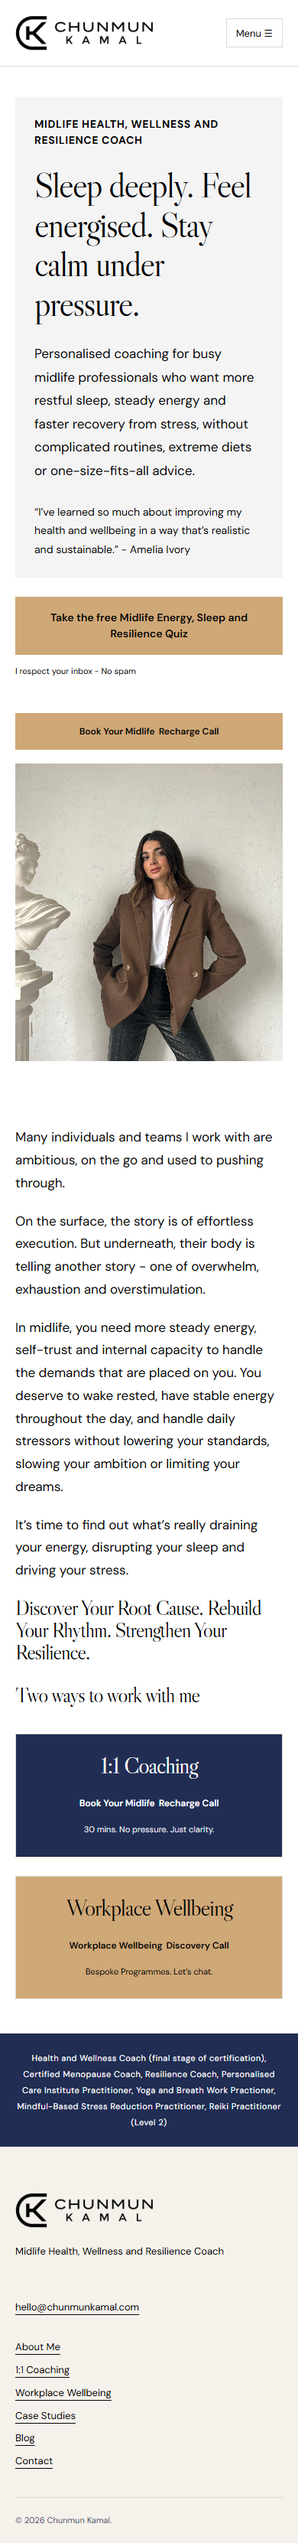
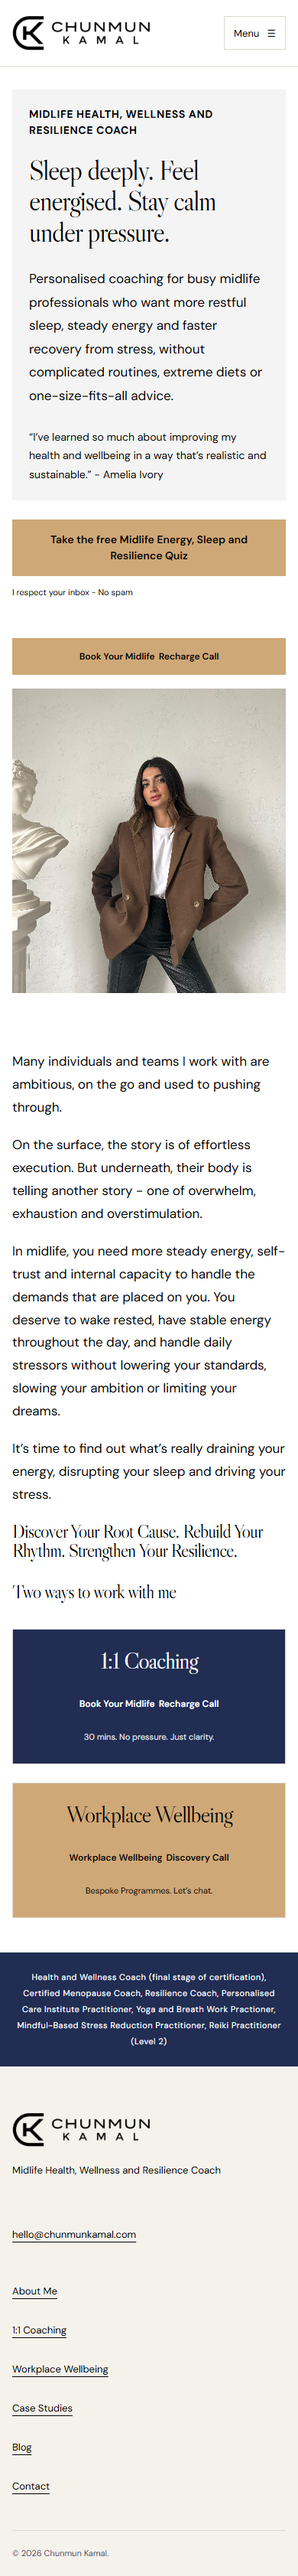
fix: improve layouts across screen sizes

diff --git a/styles.css b/styles.css
@@ -11,3 +11,74 @@
 body{color:#030303}p{color:#030303}.section{padding-block:65px}.section h2{font-size:45px}.hero{background:#fff}.hero-grid{grid-template-columns:1.8fr 1fr;align-items:start;gap:35px;padding-block:40px}.hero-copy{padding:0}.hero-panel{background:#f4f4f4;padding:35px}.hero h1{font-size:59px;line-height:1.12}.hero .eyebrow{color:#030303;letter-spacing:.045em;font-size:14px}.hero .lead{font-size:17px}.hero-quote{max-width:none;margin-top:26px;border:0;padding:0;font-size:14px;color:#030303}.hero-visual{padding:0}.hero-visual>.button{width:100%;background:var(--gold);border-color:var(--gold);color:#030303;margin-bottom:18px}.photo-frame,.photo{border-radius:0;border:0}.photo-frame{aspect-ratio:.77}.hero .quiz-link{display:inline-flex;background:var(--gold);border-color:var(--gold);color:#030303;padding:16px 22px;max-width:400px;text-align:center;font-size:14px}.intro-text{max-width:none;margin:0}.intro-text p{font-size:17px}.section[data-deck-slide="7"] h2{font-size:32px}.section[data-deck-slide="7"] .cards{max-width:830px}.cards .service{padding:25px;text-align:center;background:var(--navy)}.cards .service.gold{background:var(--gold);color:#030303}.service.gold p{color:#030303}.service .button{background:transparent;border:0;color:inherit;padding:0}.service .micro{margin-bottom:0}.service h3{font-size:29px}.section.page-hero{background:#fff;padding-block:30px}.page-hero .container{background:var(--navy);padding:65px 40px;text-align:left;color:white}.page-hero h1,.page-hero h2{color:white;margin:0}.page-hero h1{font-size:55px}.credentials.section{padding-block:22px}.credentials p{color:white}.audience-layout{display:grid;grid-template-columns:230px 1fr;gap:45px}.audiences{display:grid;align-content:space-around;gap:35px}.audiences>div{text-align:center}.audiences .topic-icon{width:70px;height:70px;background:var(--cream);padding:14px;color:var(--navy)}.topic-icon{display:block;width:58px;height:58px;margin-bottom:20px;color:var(--navy)}.audiences .topic-icon{margin-inline:auto}.audiences p{font-size:14px}.symptoms{padding-left:20px}.symptoms li{color:#030303;margin-bottom:8px}.reassurance{display:grid;gap:45px;margin:40px 0}.reassurance article{text-align:center}.reassurance .topic-icon{width:95px;height:95px;padding:23px;margin-inline:auto;color:white;background:var(--tone)}.reassurance h3{font:600 19px 'DM Sans',sans-serif;letter-spacing:0}.tone-slate{--tone:var(--muted)}.tone-rose{--tone:var(--rose)}.tone-gold{--tone:var(--gold)}.tone-sage{--tone:var(--sage)}.framework-columns{display:grid;grid-template-columns:repeat(3,1fr);gap:20px;margin-top:35px}.framework-column{padding:24px;background:#65845a10}.framework-column:nth-child(2){background:#f3f3f3}.framework-column:nth-child(3){background:#cfa87719}.framework-title{font-size:28px;min-height:70px}.framework-item{margin-top:22px;background:white;padding:20px}.framework-item h3{font-size:26px}.framework-item p{font-size:15px}.framework-item>.topic-icon{width:40px;height:40px}.framework-item .copy-block h3{font-size:26px}.photo-right{grid-template-columns:1.8fr 1fr;align-items:stretch;gap:40px}.photo-right .photo{max-height:none}.photo-right .photo img{height:100%;min-height:460px;max-height:780px;object-fit:cover}.approach-item{display:grid;grid-template-columns:64px 1fr;gap:22px;margin-bottom:30px}.approach-item>.topic-icon{background:var(--tone);color:white;padding:13px;width:64px;height:64px}.approach-item h3{font-size:28px}.approach-item:last-child{margin-bottom:0}.deck-stats{grid-template-columns:repeat(3,1fr);gap:0}.deck-stats>div{padding:30px;border-right:1px solid #ffffff40}.deck-stats>div:last-child{border:0}.deck-stats h3{font-size:30px}.deck-stats h3:last-child{margin-bottom:0}.cost-columns{display:grid;grid-template-columns:repeat(3,1fr);gap:20px;margin-top:30px}.cost-columns article{background:#f4f4f4;padding:25px}.cost-columns h3{font-size:26px}.cost-columns p{font-size:15px}.process-columns{display:grid;grid-template-columns:repeat(3,1fr);gap:45px;margin-top:45px}.process-columns h3{font-size:30px}.process-columns .topic-icon{width:64px;height:64px}.gold-band{background:#cfa87770}.gold-band h2{font-size:37px}.testimonial-columns{display:grid;grid-template-columns:1fr 1fr;gap:30px}.testimonial-columns blockquote{background:#f4f4f4;padding:30px;margin:0;font-size:16px}.testimonial-columns p{line-height:1.9}.testimonial-columns p:last-child{margin-bottom:0}.workplace-steps{margin-block:35px}.workplace-steps article{display:grid;grid-template-columns:65px 1fr;gap:30px;margin-bottom:35px}.workplace-steps h3{font-size:30px}.workplace-steps .copy-block{margin:0}.workplace-steps>article:nth-child(2)>.topic-icon{color:var(--sage)}.workplace-steps>article:nth-child(3)>.topic-icon{color:var(--rose)}.case-columns{display:block}.case-work{background:#f4f4f4;padding:28px 35px;margin-bottom:22px}.case-work li{color:#030303}.case-quote{border:0;background:var(--navy);color:white;padding:35px}.case-quote p{color:white}.case-quote h3{font-size:30px}.credential-columns{display:grid;grid-template-columns:1fr 1fr;gap:50px}.credential-columns>div{background:#f4f4f4;padding:30px}.credential-columns h3{font-size:30px}.association-slots{display:grid;grid-template-columns:repeat(3,1fr);gap:25px}.association-slots>div{height:95px;background:#f4f4f4}.personal-columns{display:grid;grid-template-columns:repeat(3,1fr);gap:35px}.personal-columns img{width:170px;height:170px;object-fit:cover;margin-bottom:25px}.personal-columns h3{font-size:30px}.personal-columns p{background:#f4f4f4;padding:22px;min-height:180px;font-size:15px}.deck-contact{max-width:900px;margin-top:35px}.pathway{max-width:none}.faq{max-width:none}.reading{max-width:1000px}
 @media(max-width:1000px){.hero-grid{grid-template-columns:1.5fr 1fr;gap:25px}.hero-panel{padding:25px}.hero h1{font-size:47px}.audience-layout{grid-template-columns:165px 1fr;gap:25px}.framework-column{padding:15px}.framework-item{padding:15px}.framework-title{font-size:25px}.photo-right{grid-template-columns:1.5fr 1fr}.approach-item{grid-template-columns:50px 1fr;gap:15px}.approach-item>.topic-icon{width:50px;height:50px;padding:10px}.process-columns{gap:25px}.deck-stats>div{padding:20px}}
 @media(max-width:700px){.section{padding-block:45px}.hero-grid{grid-template-columns:1fr}.hero h1{font-size:46px}.hero-panel{padding:25px}.hero-visual{max-width:440px;width:100%;margin-inline:auto}.photo-frame{aspect-ratio:.9}.section h2{font-size:36px}.page-hero .container{padding:38px 24px}.page-hero h1{font-size:40px}.audience-layout{grid-template-columns:1fr}.audiences{grid-template-columns:repeat(3,1fr);gap:12px}.audiences .topic-icon{width:50px;height:50px;padding:10px}.audiences p{font-size:11px}.framework-columns,.photo-right,.deck-stats,.cost-columns,.process-columns,.testimonial-columns,.credential-columns,.personal-columns{grid-template-columns:1fr}.framework-title{min-height:0}.reassurance{gap:15px}.reassurance .topic-icon{width:60px;height:60px;padding:14px}.reassurance h3{font-size:13px;line-height:1.6}.photo-right .photo img{min-height:0;height:380px;object-position:center 30%}.deck-stats>div{border-right:0;border-bottom:1px solid #ffffff40}.personal-columns img{width:100%;height:240px}.personal-columns p{min-height:0}.association-slots{gap:12px}.association-slots>div{height:65px}.workplace-steps article{grid-template-columns:45px 1fr;gap:15px}.workplace-steps .topic-icon{width:40px;height:40px}.case-work,.case-quote{padding:25px}.testimonial-columns blockquote{padding:24px}.process-columns{gap:30px}.framework-columns{gap:25px}.gold-band h2{font-size:32px}.section[data-deck-slide="7"] h2{font-size:27px}}
+
+/* Fluid sizing and readable tablet layouts, without clipping long content. */
+.container{width:min(1200px,calc(100% - clamp(32px,6vw,96px)))}
+.hero-grid,.split,.framework-columns,.cost-columns,.process-columns,.testimonial-columns,.credential-columns,.personal-columns,.footer-top,.form-grid{min-width:0}
+.hero-grid>*,.split>*,.framework-columns>*,.cost-columns>*,.process-columns>*,.testimonial-columns>*,.credential-columns>*,.personal-columns>*,.footer-top>*,.form-grid>*{min-width:0}
+h1,h2,h3,p,li,blockquote,label,a{overflow-wrap:break-word}
+.hero h1{font-size:clamp(36px,4.3vw,59px)}
+.section h2{font-size:clamp(28px,3.2vw,45px)}
+.page-hero h1{font-size:clamp(32px,4vw,55px)}
+.gold-band h2{font-size:clamp(28px,3vw,37px)}
+.section[data-deck-slide="7"] h2{font-size:clamp(24px,2.5vw,32px)}
+.pathway>.copy-block:first-child h3{font-size:clamp(28px,3.5vw,48px)}
+.button{max-width:100%;min-height:44px;text-align:center}
+.brand{flex-shrink:0;max-width:calc(100vw - 110px)}
+input,select,textarea{min-width:0;max-width:100%}
+.blog-content img{height:auto}
+.blog-content iframe,.blog-content video{max-width:100%}
+.blog-content pre{white-space:pre-wrap;overflow-wrap:anywhere}
+.blog-content table{display:block;max-width:100%;overflow:auto}
+.calendar-link,footer a{overflow-wrap:anywhere}
+summary{min-height:44px;padding-block:5px}
+
+@media(max-width:1100px){
+ .framework-columns{grid-template-columns:minmax(0,1fr)}
+ .framework-column{display:grid;grid-template-columns:repeat(2,minmax(0,1fr));gap:20px;padding:22px}
+ .framework-title{grid-column:1/-1;min-height:0;margin-bottom:0}
+ .framework-item{margin-top:0}
+ .cost-columns{grid-template-columns:repeat(2,minmax(0,1fr))}
+}
+@media(max-width:1024px){
+ .header{min-height:86px;flex-wrap:wrap;gap:0}
+ .menu-toggle{display:flex;align-items:center;justify-content:center;gap:10px;min-height:44px;min-width:70px;background:none;border:1px solid var(--line);padding:9px 12px;font:13px 'DM Sans',sans-serif}
+ #navigation{display:none;width:100%;padding:14px 0;flex-direction:column;gap:0}
+ #navigation.open{display:flex}
+ #navigation a{display:flex;align-items:center;min-height:44px;font-size:15px;padding:8px 4px}
+ .process-columns{grid-template-columns:minmax(0,1fr);gap:28px}
+ .process-columns article{display:grid;grid-template-columns:64px minmax(0,1fr);column-gap:24px}
+ .process-columns article>.topic-icon{grid-column:1;grid-row:1/span 12}
+ .process-columns article>:not(.topic-icon){grid-column:2}
+}
+@media(max-width:900px){
+ .hero-grid{grid-template-columns:minmax(0,1fr);gap:30px}
+ .hero-visual{width:100%;max-width:480px;margin-inline:auto}
+ .hero-panel{padding:clamp(22px,4vw,35px)}
+ .photo-frame{aspect-ratio:.9}
+ .photo-right{grid-template-columns:minmax(0,1fr);gap:30px}
+ .photo-right .photo{max-width:480px;width:100%;margin-inline:auto}
+ .photo-right .photo img{height:440px;min-height:0;object-position:center 30%}
+ .testimonial-columns,.credential-columns{grid-template-columns:minmax(0,1fr);gap:24px}
+ .personal-columns{grid-template-columns:minmax(0,1fr);gap:30px}
+ .personal-columns article{display:grid;grid-template-columns:170px minmax(0,1fr);gap:0 24px}
+ .personal-columns img{grid-row:1/span 2;width:170px;height:210px;margin:0}
+ .personal-columns p{min-height:0;margin-bottom:0}
+}
+@media(max-width:600px){
+ .hero-grid{padding-block:30px}
+ .page-hero .container{padding:32px 22px}
+ .framework-column{grid-template-columns:minmax(0,1fr);padding:18px}
+ .cost-columns{grid-template-columns:minmax(0,1fr)}
+ .process-columns article{grid-template-columns:48px minmax(0,1fr);column-gap:16px}
+ .process-columns .topic-icon{width:48px;height:48px}
+ .process-columns h3{font-size:26px}
+ .personal-columns article{display:block}
+ .personal-columns img{width:100%;height:240px;margin-bottom:22px}
+ .photo-right .photo img{height:380px}
+ .hero .quiz-link{width:100%;padding:15px 18px}
+ .footer-top a{display:inline-flex;align-items:center;min-height:44px}
+ .footer-top .brand{display:block;min-height:0}
+ details>div{padding-inline:10px}
+ .workplace-steps h3,.credential-columns h3{font-size:27px}
+}

diff --git a/script.js b/script.js
@@ -12,6 +12,18 @@ document.addEventListener('keydown', (event) => {
     menu.focus();
   }
 });
+// Reset the mobile menu when switching between phone and desktop layouts.
+const mobileLayout = window.matchMedia('(max-width: 1024px)');
+mobileLayout.addEventListener('change', () => {
+  menu?.setAttribute('aria-expanded', 'false');
+  navigation?.classList.remove('open');
+});
+navigation?.addEventListener('click', (event) => {
+  if (event.target.closest('a') && mobileLayout.matches) {
+    menu?.setAttribute('aria-expanded', 'false');
+    navigation.classList.remove('open');
+  }
+});
 const form = document.querySelector('#contact-form');
 if (form) {
   const programme = new URLSearchParams(location.search).get('programme');

diff --git a/README.md b/README.md
@@ -31,6 +31,8 @@ All 63 slides and 478 extracted text blocks are accounted for. `CONTENT-AUDIT.md
 
 `styles.css` contains the responsive design; `script.js` handles mobile navigation and the contact email draft. `build.py` extracts the original PowerPoint when available, preserving authored line breaks, and regenerates the HTML. It falls back to `revisions.json` when the PowerPoint is unavailable and uses the saved full stress article in `blog-source.json`. Its content checks fail if any source block is unaccounted for or any website paragraph differs from the source text, apart from layout whitespace.
 
-Browser checks covered all eight pages at 1440px desktop, 768px tablet and 390px mobile widths: no broken images or horizontal overflow, no JavaScript errors. Mobile navigation and FAQ expansion were exercised. Screenshots are in `preview/`. Third-party Calendly booking completion and actual email delivery were not tested.
+Responsive layouts use fluid headings and spacing, readable tablet grids, stacked phone layouts and a mobile menu through 1024px. The menu resets when crossing between mobile and desktop layouts. Buttons and mobile navigation links have touch-friendly target sizes.
+
+Browser checks covered all eight pages at 18 viewport widths from 320px to 2560px, including both sides of layout breakpoints: 144 page/width combinations, with no horizontal overflow or content extending outside the viewport. Mobile navigation, desktop/mobile resizing, Escape dismissal, FAQ expansion and workplace programme selection were exercised. Screenshots are in `preview/`, including tablet and phone previews. Third-party Calendly loading was excluded from this layout sweep; booking completion and actual email delivery were not tested.
 
 Reference layouts reviewed: https://www.heidiallsopcoaching.com/, https://andreagiles.com/, https://susanfilan.com/. Existing assets and stress article sourced from https://chunmunkamal.web-testlink.com/.
